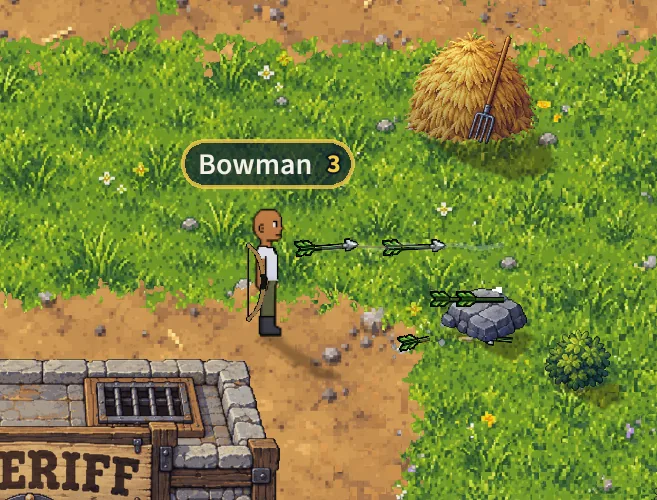
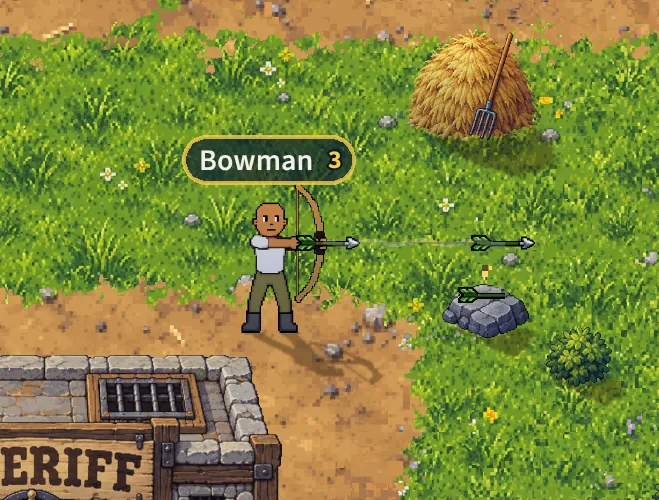
The rock's after picture, retaken on the final build (v2.3.3206)
The same rock from the same spot, with nothing else on its line, so it is
still what the bow is aimed at under the fly-over-low-things rule: two
arrows in it. docs/shots/bowprops.md says so.

Claude-Session: https://claude.ai/code/session_01HpQxWvcvVmTrZKPpqFCEwc

diff --git a/docs/shots/bowprops.md b/docs/shots/bowprops.md
@@ -9,7 +9,9 @@ the aim line is drawn only then.
 
 - **Before** is main's build (v2.3.3197). It was held for 7 seconds.
 - **After** is this change. It was held until the target had taken 3 arrows
-  (the Town Hall) or 2 (the rock).
+  (the Town Hall) or 2 (the rock). The rock was taken again on the final
+  build, after arrows began flying over low things: nothing else is on its
+  line, so it is still what the bow is aimed at.
 
 The pictures are cropped round the archer and the target.
 
